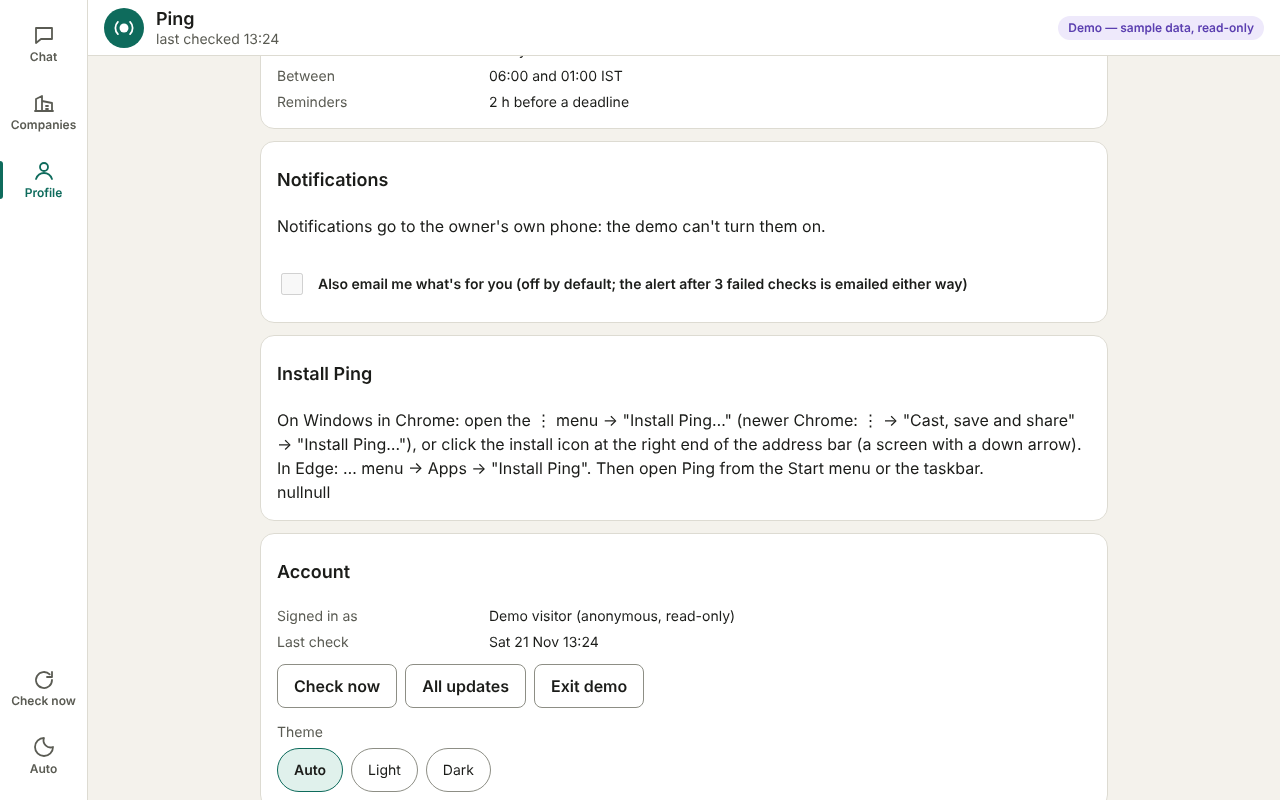
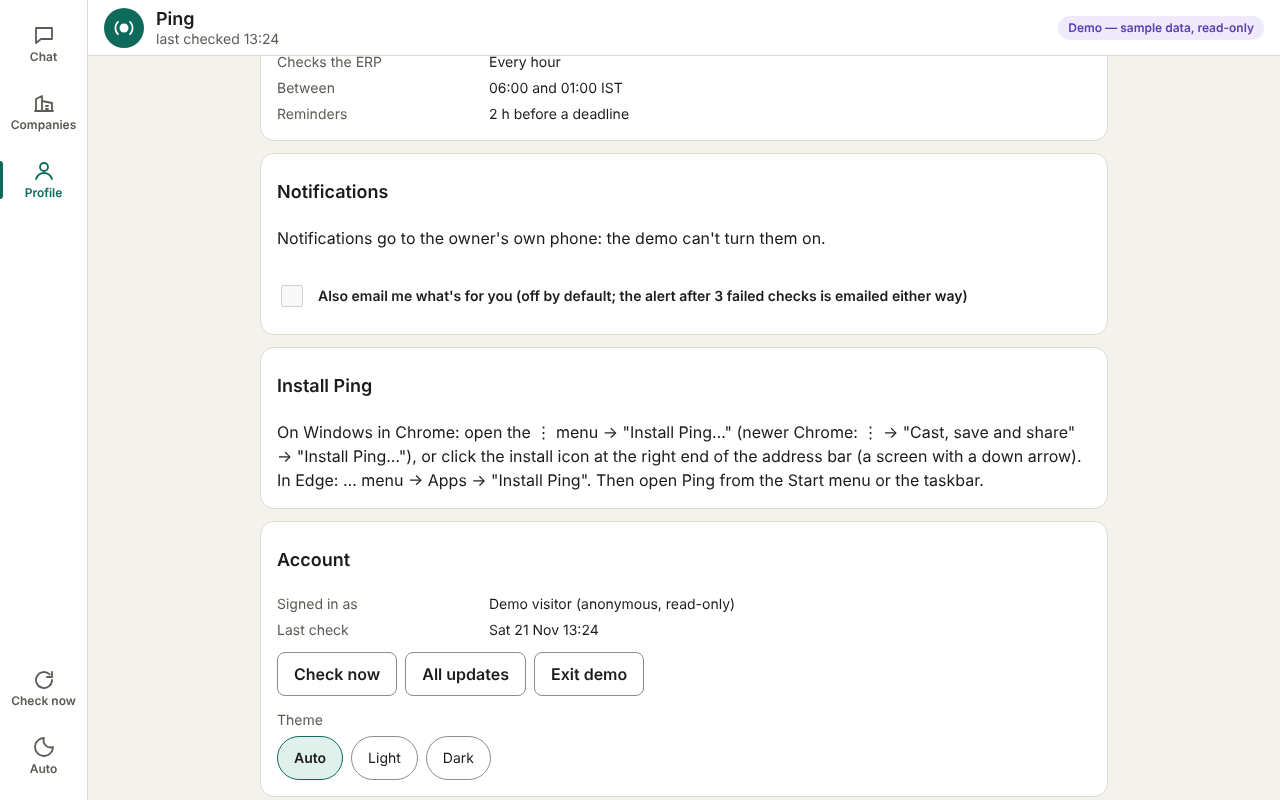
Install message: no stray 'null' after the steps
Claude-Session: https://claude.ai/code/session_0195wKaGeVRX1M8NJaTy4Lo5

diff --git a/dashboard/app.js b/dashboard/app.js
@@ -1007,10 +1007,10 @@
           else draw();                                     // dismissed: the steps, since the button can't work again
         } }, "Install") : null,
         !profile ? h("button", { type: "button", class: "chip", "data-install": "later", onclick: () => { snoozeInstall(); onGone?.(); } }, "Not now") : null);
-      box.replaceChildren(
+      box.replaceChildren(...[
         h(profile ? "p" : "span", { class: profile ? "summary" : "text" }, text),
         !ev && isIOS() ? h("img", { class: "ios-steps", src: "icons/ios-install.svg", alt: "Tap Share, then Add to Home Screen", width: 340, height: 150 }) : null,
-        chips.children.length ? chips : null);
+        chips.children.length ? chips : null].filter(Boolean));
     };
     box.redraw = draw;
     draw();

diff --git a/setup/install_check.js b/setup/install_check.js
@@ -48,6 +48,7 @@ async function open(b, { visits = 2, install = undefined, event = false } = {}) 
   const text = await msg.innerText().catch(() => "");
   check(/⋮ menu → "Install Ping…"/.test(text) && /address bar/.test(text), `  with the Windows steps: "${text.split("\n").find((l) => l.includes("⋮"))?.slice(0, 90)}…"`);
   check(await msg.locator('[data-install="prompt"]').count() === 0, "  and no Install button (it couldn't open anything)");
+  check(!/\bnull\b|undefined/.test(text), "  no stray text in it");
   await msg.scrollIntoViewIfNeeded();
   await p.screenshot({ path: path.join(OUT, "install-steps-windows-1280.png") });
   await msg.locator('[data-install="later"]').click();
